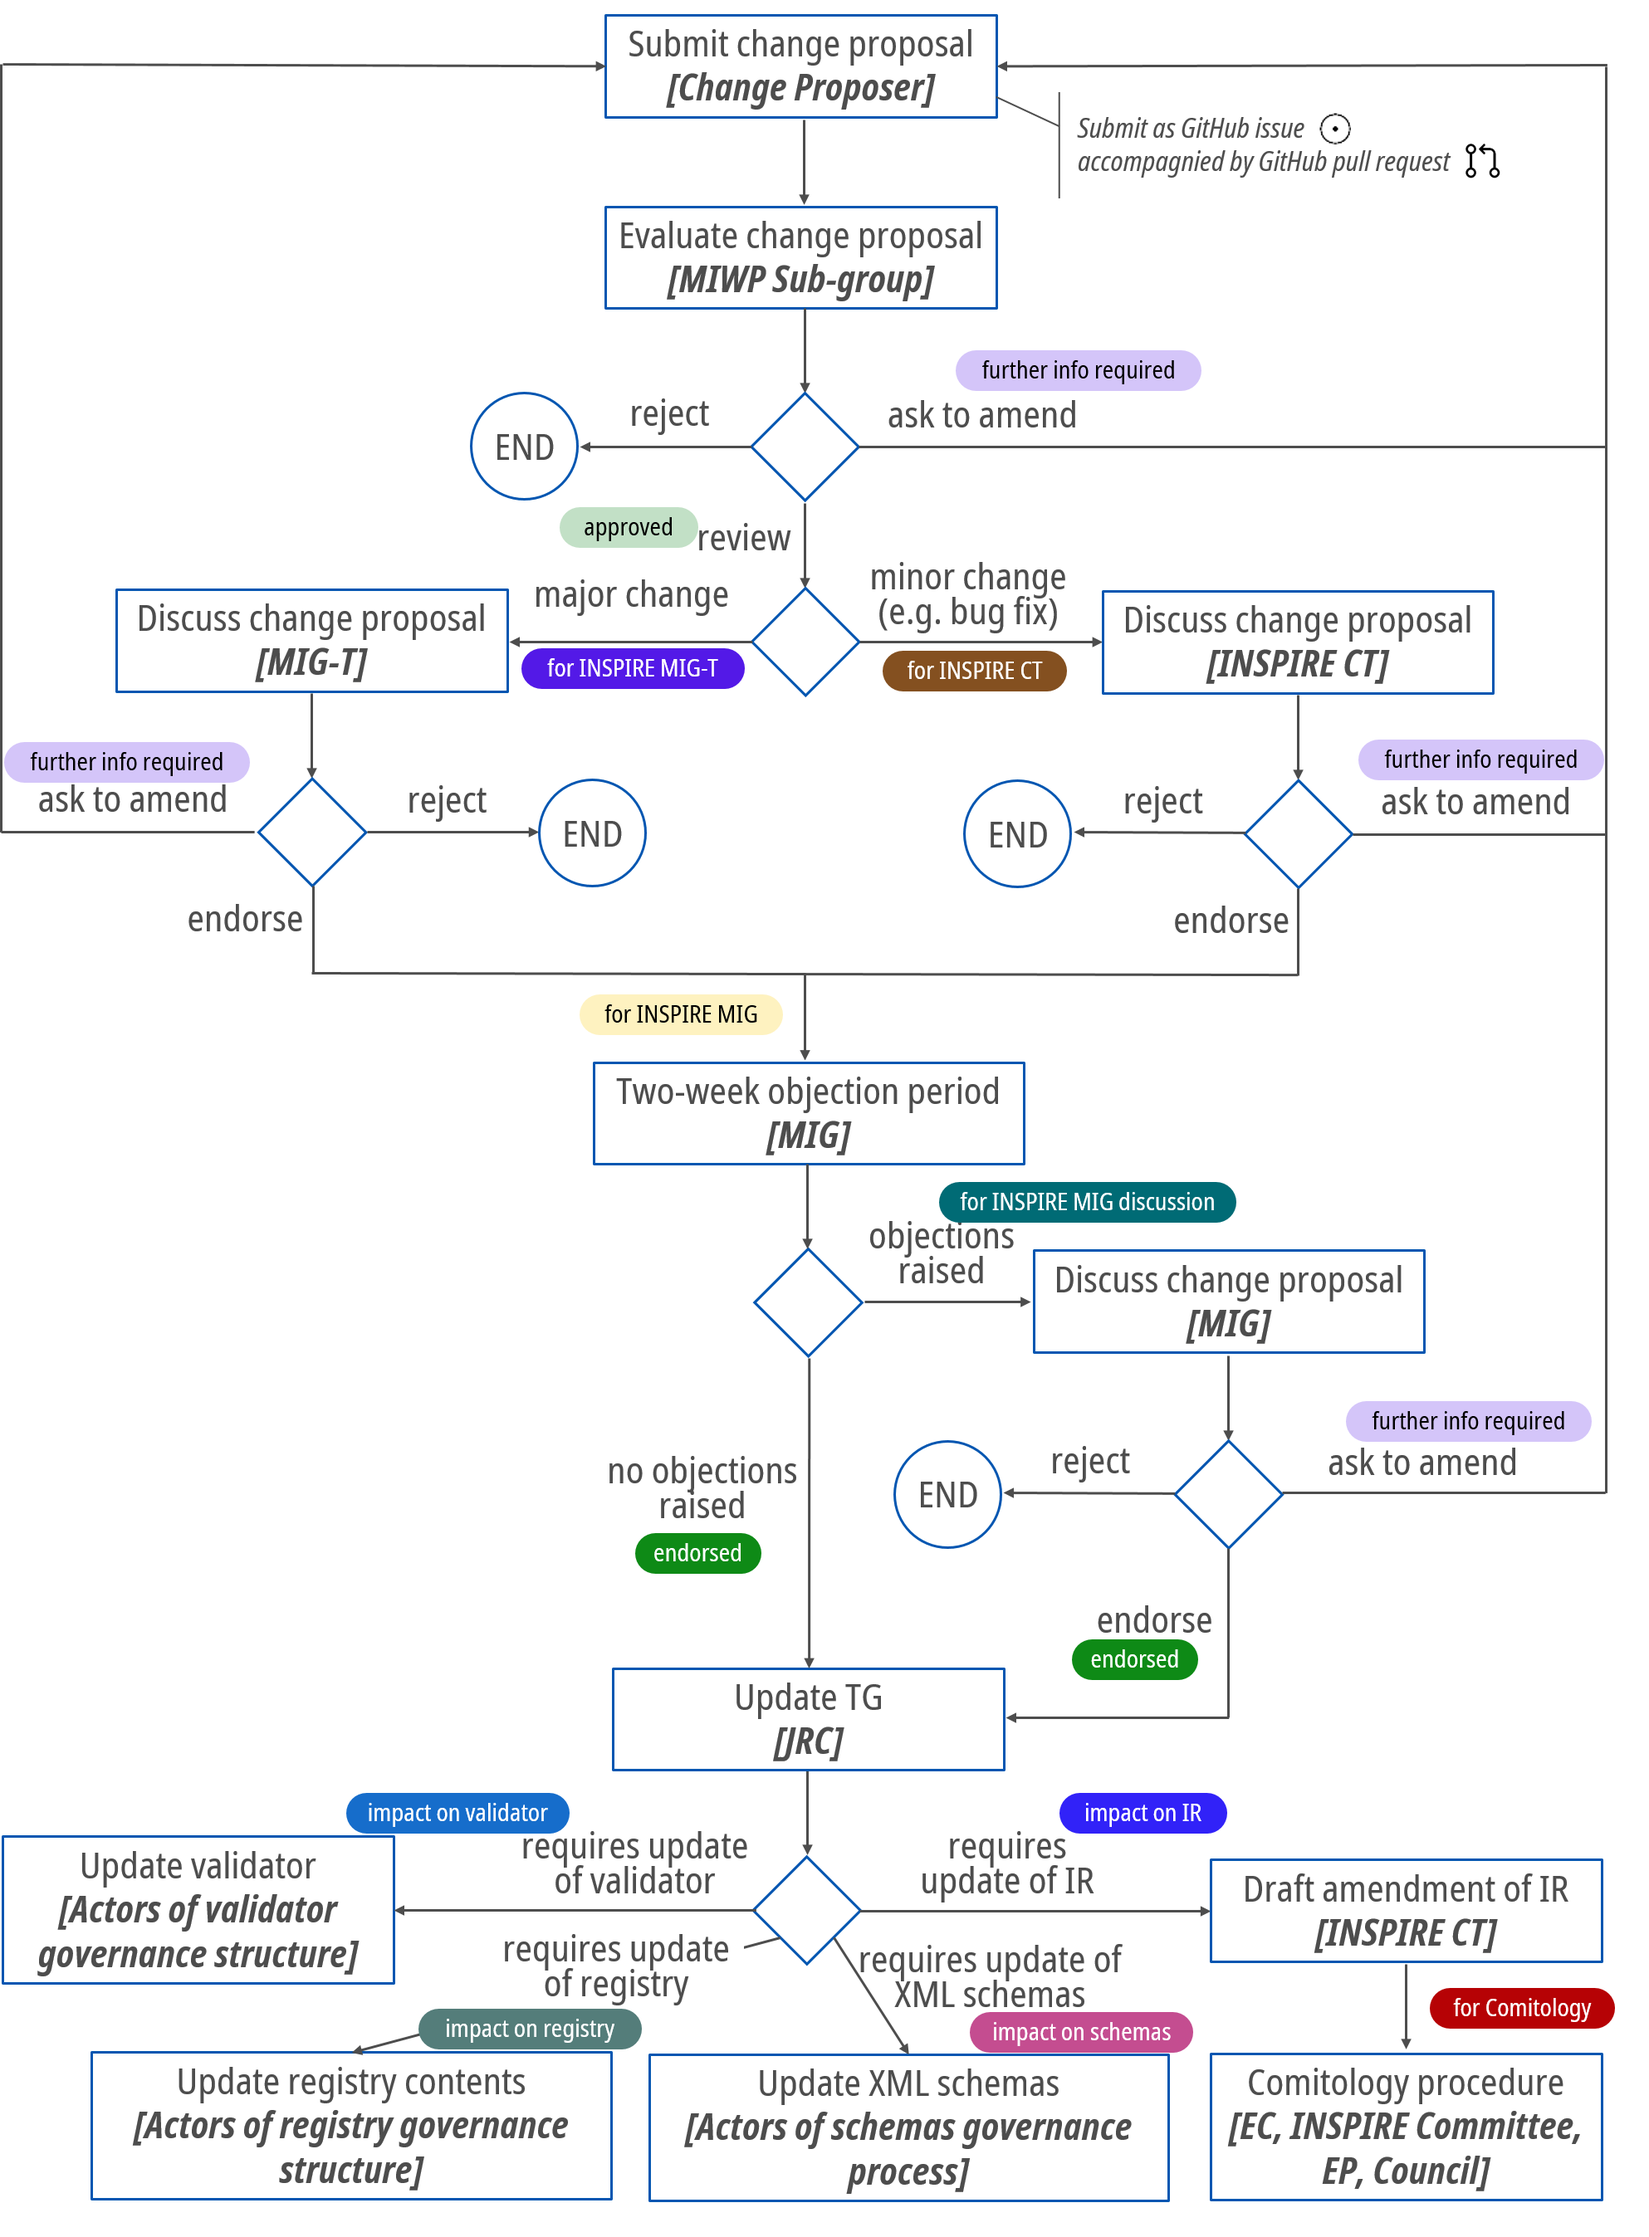
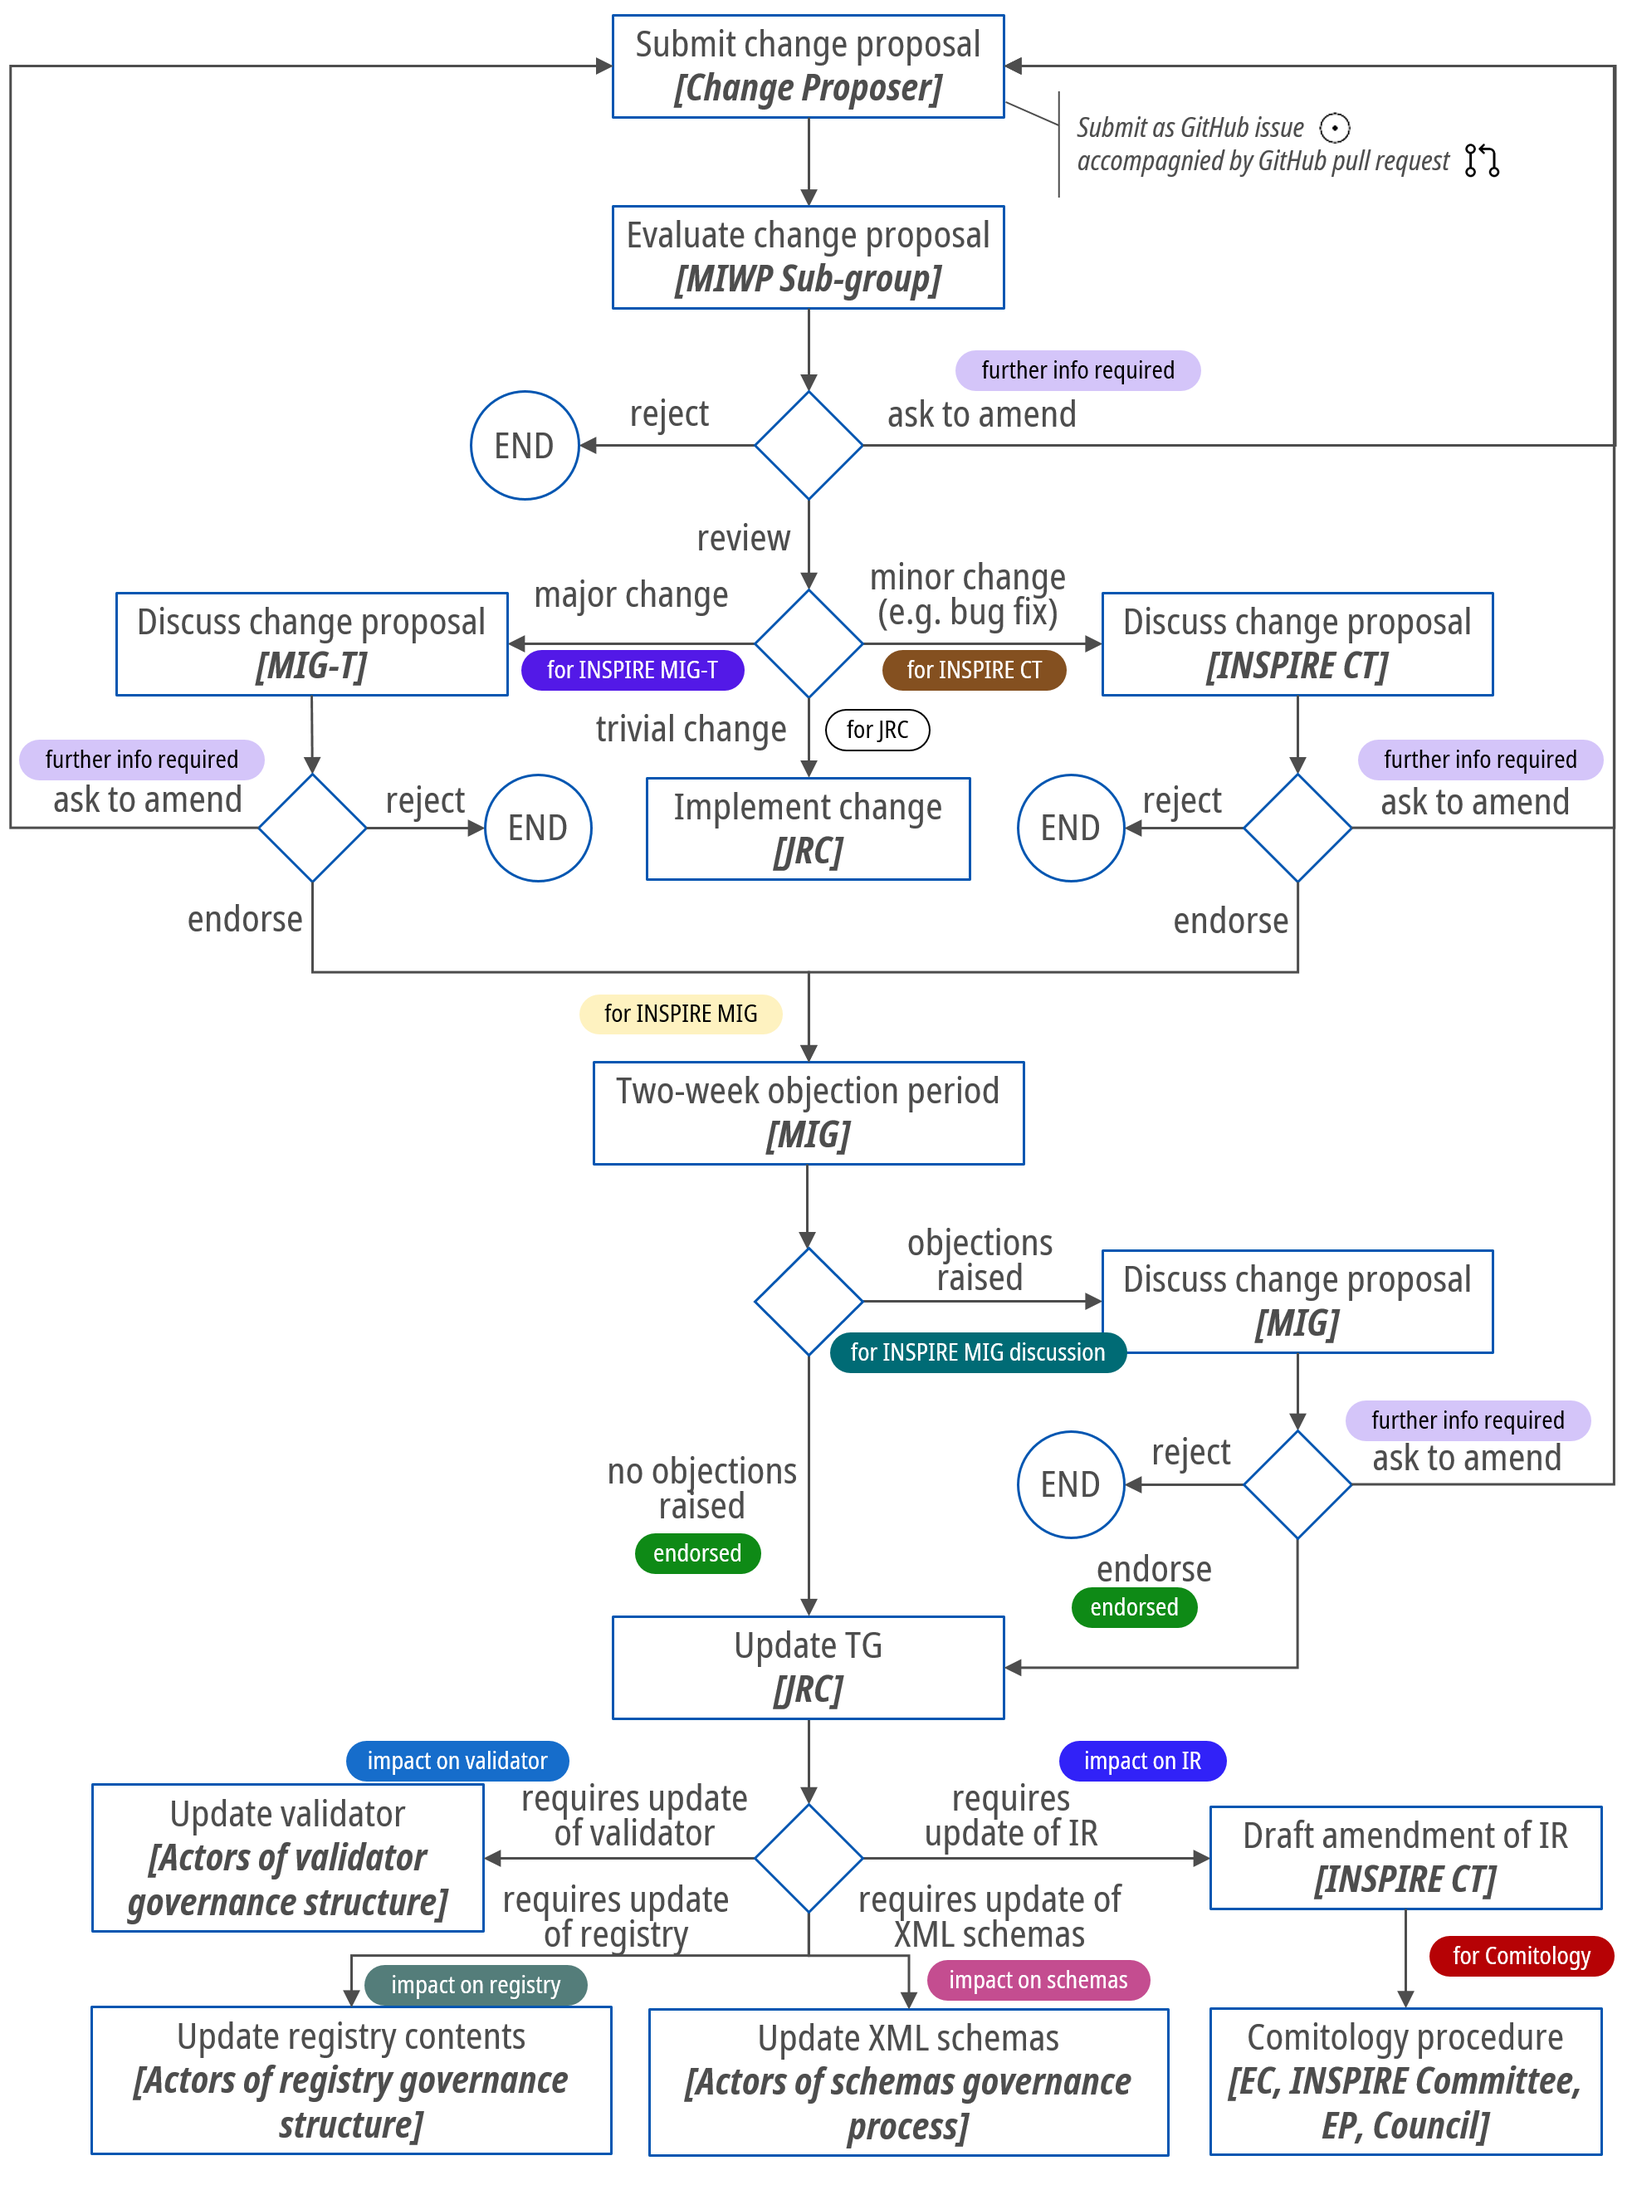
Update governance process: remove label "approved", add label "for JRC"

Changed region(s): [[0.0, 0.0, 0.9929, 0.997]]

diff --git a/governance-release-process/process.md b/governance-release-process/process.md
@@ -12,11 +12,13 @@ The first actor involved in the governance process is the **change proposer**, i
 
 The next actor involved in the governance process is the **MIWP Sub-group of experts** (referred to as Sub-group in the following), supervised by the JRC and created within [Action 2.3 “Simplification of INSPIRE implementation”](https://webgate.ec.europa.eu/fpfis/wikis/display/InspireMIG/Action+2.3+Simplification+of+INSPIRE+implementation) of the [INSPIRE MIWP 2020-2024](https://webgate.ec.europa.eu/fpfis/wikis/display/InspireMIG/INSPIRE+work+programme+2021-24). The Sub-group shall evaluate the proposal and, in a first step, check whether: i) the change proposal is reasonable; and ii) the change proposal (including the impact) is correct, clear, described with a sufficient level of detail, and the impact of the change in the TG is the one described by the change proposer. To do so, the Sub-group shall interact with the change proposer and shall be closely supported by the INSPIRE **helpdesk facilitators**. The latter shall also contribute to the analysis of the change proposal and make sure it covers all the required points and is ready to be discussed by the Sub-group. All the interactions between the change proposer, the Sub-group and the helpdesk facilitators shall happen in the [issue tracker](https://github.com/INSPIRE-MIF/technical-guidelines/issues) of this repository, in the form of a discussion under the same issue initially created.
 
-If the change proposal (including the impact) is not reasonable and/or not correct, not clear, or not described with a sufficient level of detail, the Sub-group shall either reject it (in which case the issue will be closed) or ask the change proposer to improve it – with the help of the helpdesk facilitators – and submit it again. In this case, the GitHub label _further info required_ is used. On the opposite, if the change proposal is correct, clear and described with a sufficient level of detail, the GitHub label _approved_ will be used. At this point, depending on the type of change proposal, the workflow can follow two different paths (see below) based on a decision of the Sub-group. To determine what is the most suitable path for the specific type of change proposed, the Sub-group reserves the right to ask the change proposer for additional evidence or justification of the change proposal (to be given by e.g. a MIG/MIG-T member) and the GitHub label _further info required_ is used. No evidence shall instead be required in the cases of clear errors in a TG (see below). The two paths are the following:
+If the change proposal (including the impact) is not reasonable and/or not correct, not clear, or not described with a sufficient level of detail, the Sub-group shall either reject it (in which case the issue will be closed) or ask the change proposer to improve it – with the help of the helpdesk facilitators – and submit it again. In this case, the GitHub label _further info required_ is used. On the opposite, if the change proposal is correct, clear and described with a sufficient level of detail, the workflow can follow three different paths (see below), depending on the type of change proposal and based on a decision of the Sub-group. To determine what is the most suitable path for the specific type of change proposed, the Sub-group reserves the right to ask the change proposer for additional evidence or justification of the change proposal (to be given by e.g. a MIG/MIG-T member) and the GitHub label _further info required_ is used. No evidence shall instead be required in the cases of clear errors in a TG (see below). The three paths are the following:
 
-1) If the proposed change analysed by the Sub-group is obvious and minor, e.g. there is a clear error in the TG and the proposal is to fix it, with no impact on the validator, the XML schemas, the registry or the IR, the Sub-group shall approve the change and invite the **INSPIRE Coordination Team (CT)** to endorse it. The GitHub label _for INSPIRE CT_ is used. The INSPIRE CT shall either: i) endorse the proposal; ii) reject the proposal; or iii) ask the change proposer to amend the proposal and submit it again. If the change proposal is rejected by the INSPIRE CT, the issue is closed and the whole process ends; if the INSPIRE CT asks that the change proposal is amended, the GitHub label _further info required_ is used and the change proposer shall amend it according to the feedback received and submit it again.
+1) If the proposed change analysed by the Sub-group is trivial (e.g. a change in the repository structure), i.e. it does not need to be discussed but is added merely for the purpose of informing the users of the change, the Sub-group takes notice of the change, and the GitHub label _for JRC_ is assigned. The **JRC** shall then implement the change, and once this is done, the issue is closed.
+
+2) If the proposed change analysed by the Sub-group is obvious and minor, e.g. there is a clear error in the TG and the proposal is to fix it, with no impact on the validator, the XML schemas, the registry or the IR, the Sub-group shall approve the change and invite the **INSPIRE Coordination Team (CT)** to endorse it. The GitHub label _for INSPIRE CT_ is used. The INSPIRE CT shall either: i) endorse the proposal; ii) reject the proposal; or iii) ask the change proposer to amend the proposal and submit it again. If the change proposal is rejected by the INSPIRE CT, the issue is closed and the whole process ends; if the INSPIRE CT asks that the change proposal is amended, the GitHub label _further info required_ is used and the change proposer shall amend it according to the feedback received and submit it again.
  
-2) If the proposed change analysed by the Sub-group is major, i.e. it impacts the validator, the XML schemas, the registry and/or the IR, the following actor in the process is the **INSPIRE MIG-T**. The GitHub label _for INSPIRE MIG-T_ is used. The change proposal is presented by the Sub-group (ideally together with the original change proposer) to the MIG-T during the second or the fourth MIG-T meetings of the year, indicatively taking place in April and October. The MIG-T members, who will receive the rationale for the change proposal in written form before the meeting, will be able to ask questions and discuss with the change proposer and express themselves in favor or against the change proposal. An overall decision (in favor/against) from the MIG-T shall be taken during the meeting through a voting process, where MIG-T members voting against the proposal or abstaining from voting need to provide justification. The MIG-T shall either: i) endorse the proposal; ii) reject the proposal, in which case the issue is closed; or iii) ask the change proposer to amend the proposal and submit it again, in which case the GitHub label _further info required_ is used. If the change proposal is rejected by the MIG-T, the whole process ends; if the MIG-T asks that the change proposal is amended, the change proposer shall amend it according to the feedback received and submit it again. 
+3) If the proposed change analysed by the Sub-group is major, i.e. it impacts the validator, the XML schemas, the registry and/or the IR, the following actor in the process is the **INSPIRE MIG-T**. The GitHub label _for INSPIRE MIG-T_ is used. The change proposal is presented by the Sub-group (ideally together with the original change proposer) to the MIG-T during the second or the fourth MIG-T meetings of the year, indicatively taking place in April and October. The MIG-T members, who will receive the rationale for the change proposal in written form before the meeting, will be able to ask questions and discuss with the change proposer and express themselves in favor or against the change proposal. An overall decision (in favor/against) from the MIG-T shall be taken during the meeting through a voting process, where MIG-T members voting against the proposal or abstaining from voting need to provide justification. The MIG-T shall either: i) endorse the proposal; ii) reject the proposal, in which case the issue is closed; or iii) ask the change proposer to amend the proposal and submit it again, in which case the GitHub label _further info required_ is used. If the change proposal is rejected by the MIG-T, the whole process ends; if the MIG-T asks that the change proposal is amended, the change proposer shall amend it according to the feedback received and submit it again.
 
 If the change proposal is endorsed by the INSPIRE CT or by the MIG-T, respectively in cases 1) and 2) above, the GitHub label _for INSPIRE MIG_ is used. The **INSPIRE MIG** is informed about the change proposal and a two-week time window starts, during which MIG members can raise objections to the proposal. If at least one objection is raised during the two-week time window, the GitHub label _for INSPIRE MIG discussion_ is used and the change proposal is discussed at the first MIG meeting immediately following the two-week time window. An overall decision (in favor/against) from the MIG shall be taken during the meeting through a voting process, where MIG members voting against the proposal or abstaining from voting need to provide justification. The MIG shall either: i) endorse the proposal, in which case the GitHub label _endorsed_ is used; ii) reject the proposal, in which case the issue is closed; or iii) ask the change proposer to amend the proposal and submit it again, in which case the GitHub label _further info required_ is used. If the change proposal is rejected by the MIG, the whole process ends; if the MIG asks that the change proposal is amended, the change proposer shall amend it according to the feedback received and submit it again.
 
